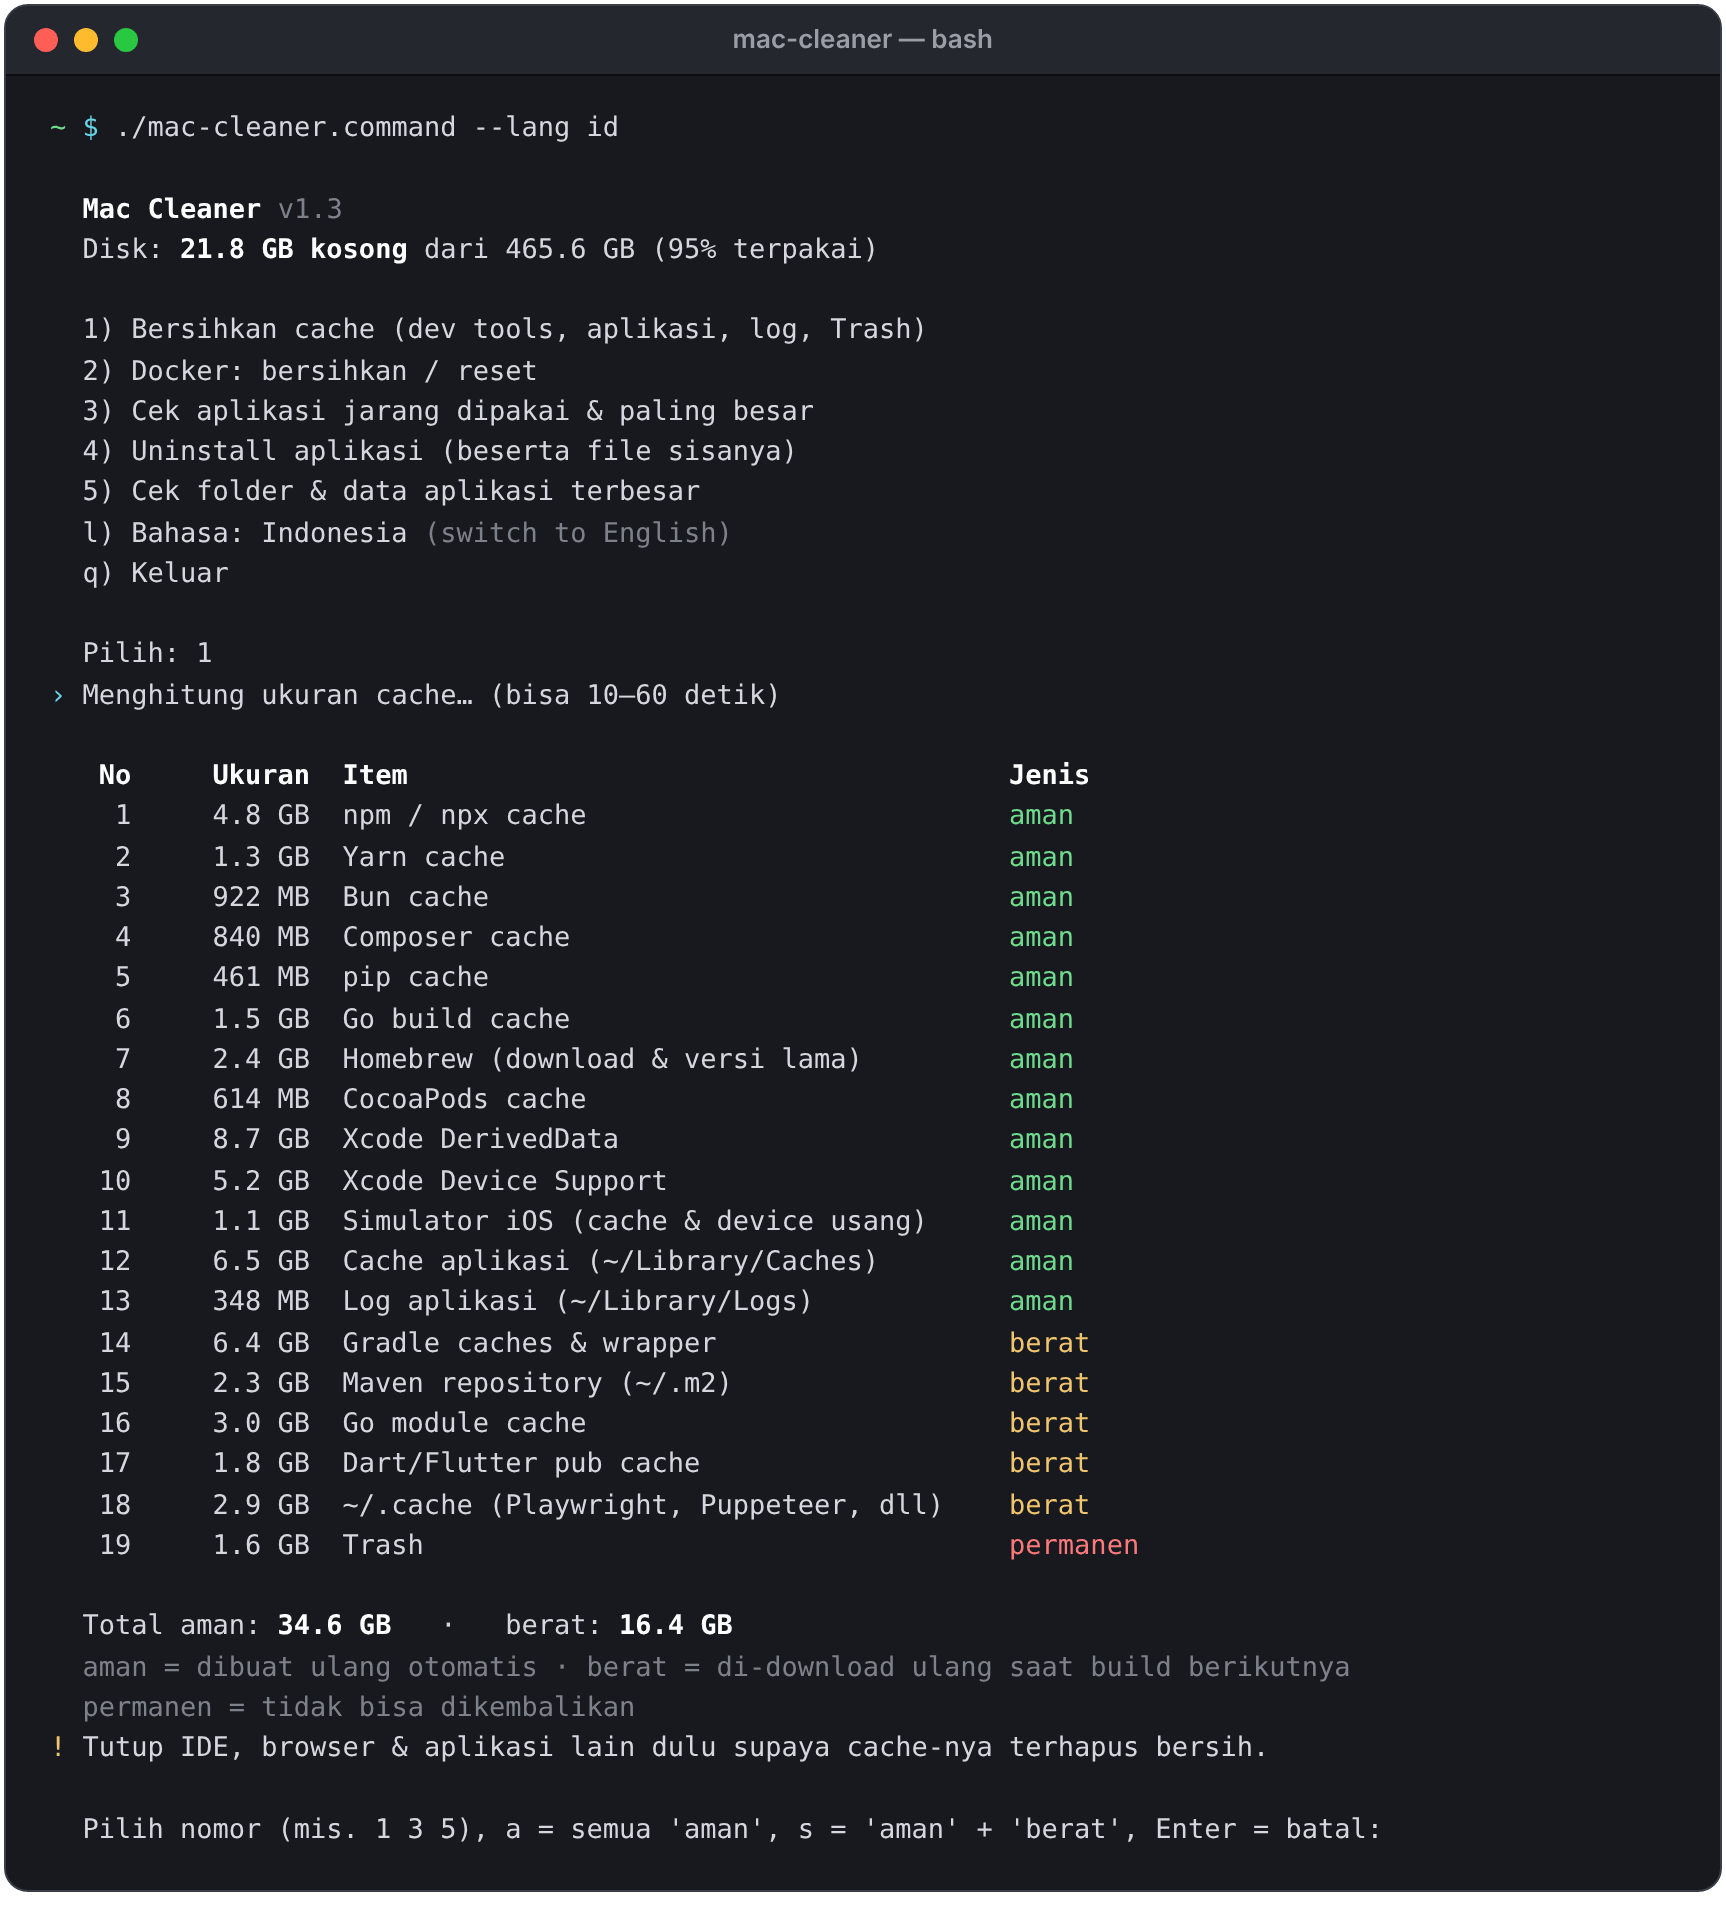
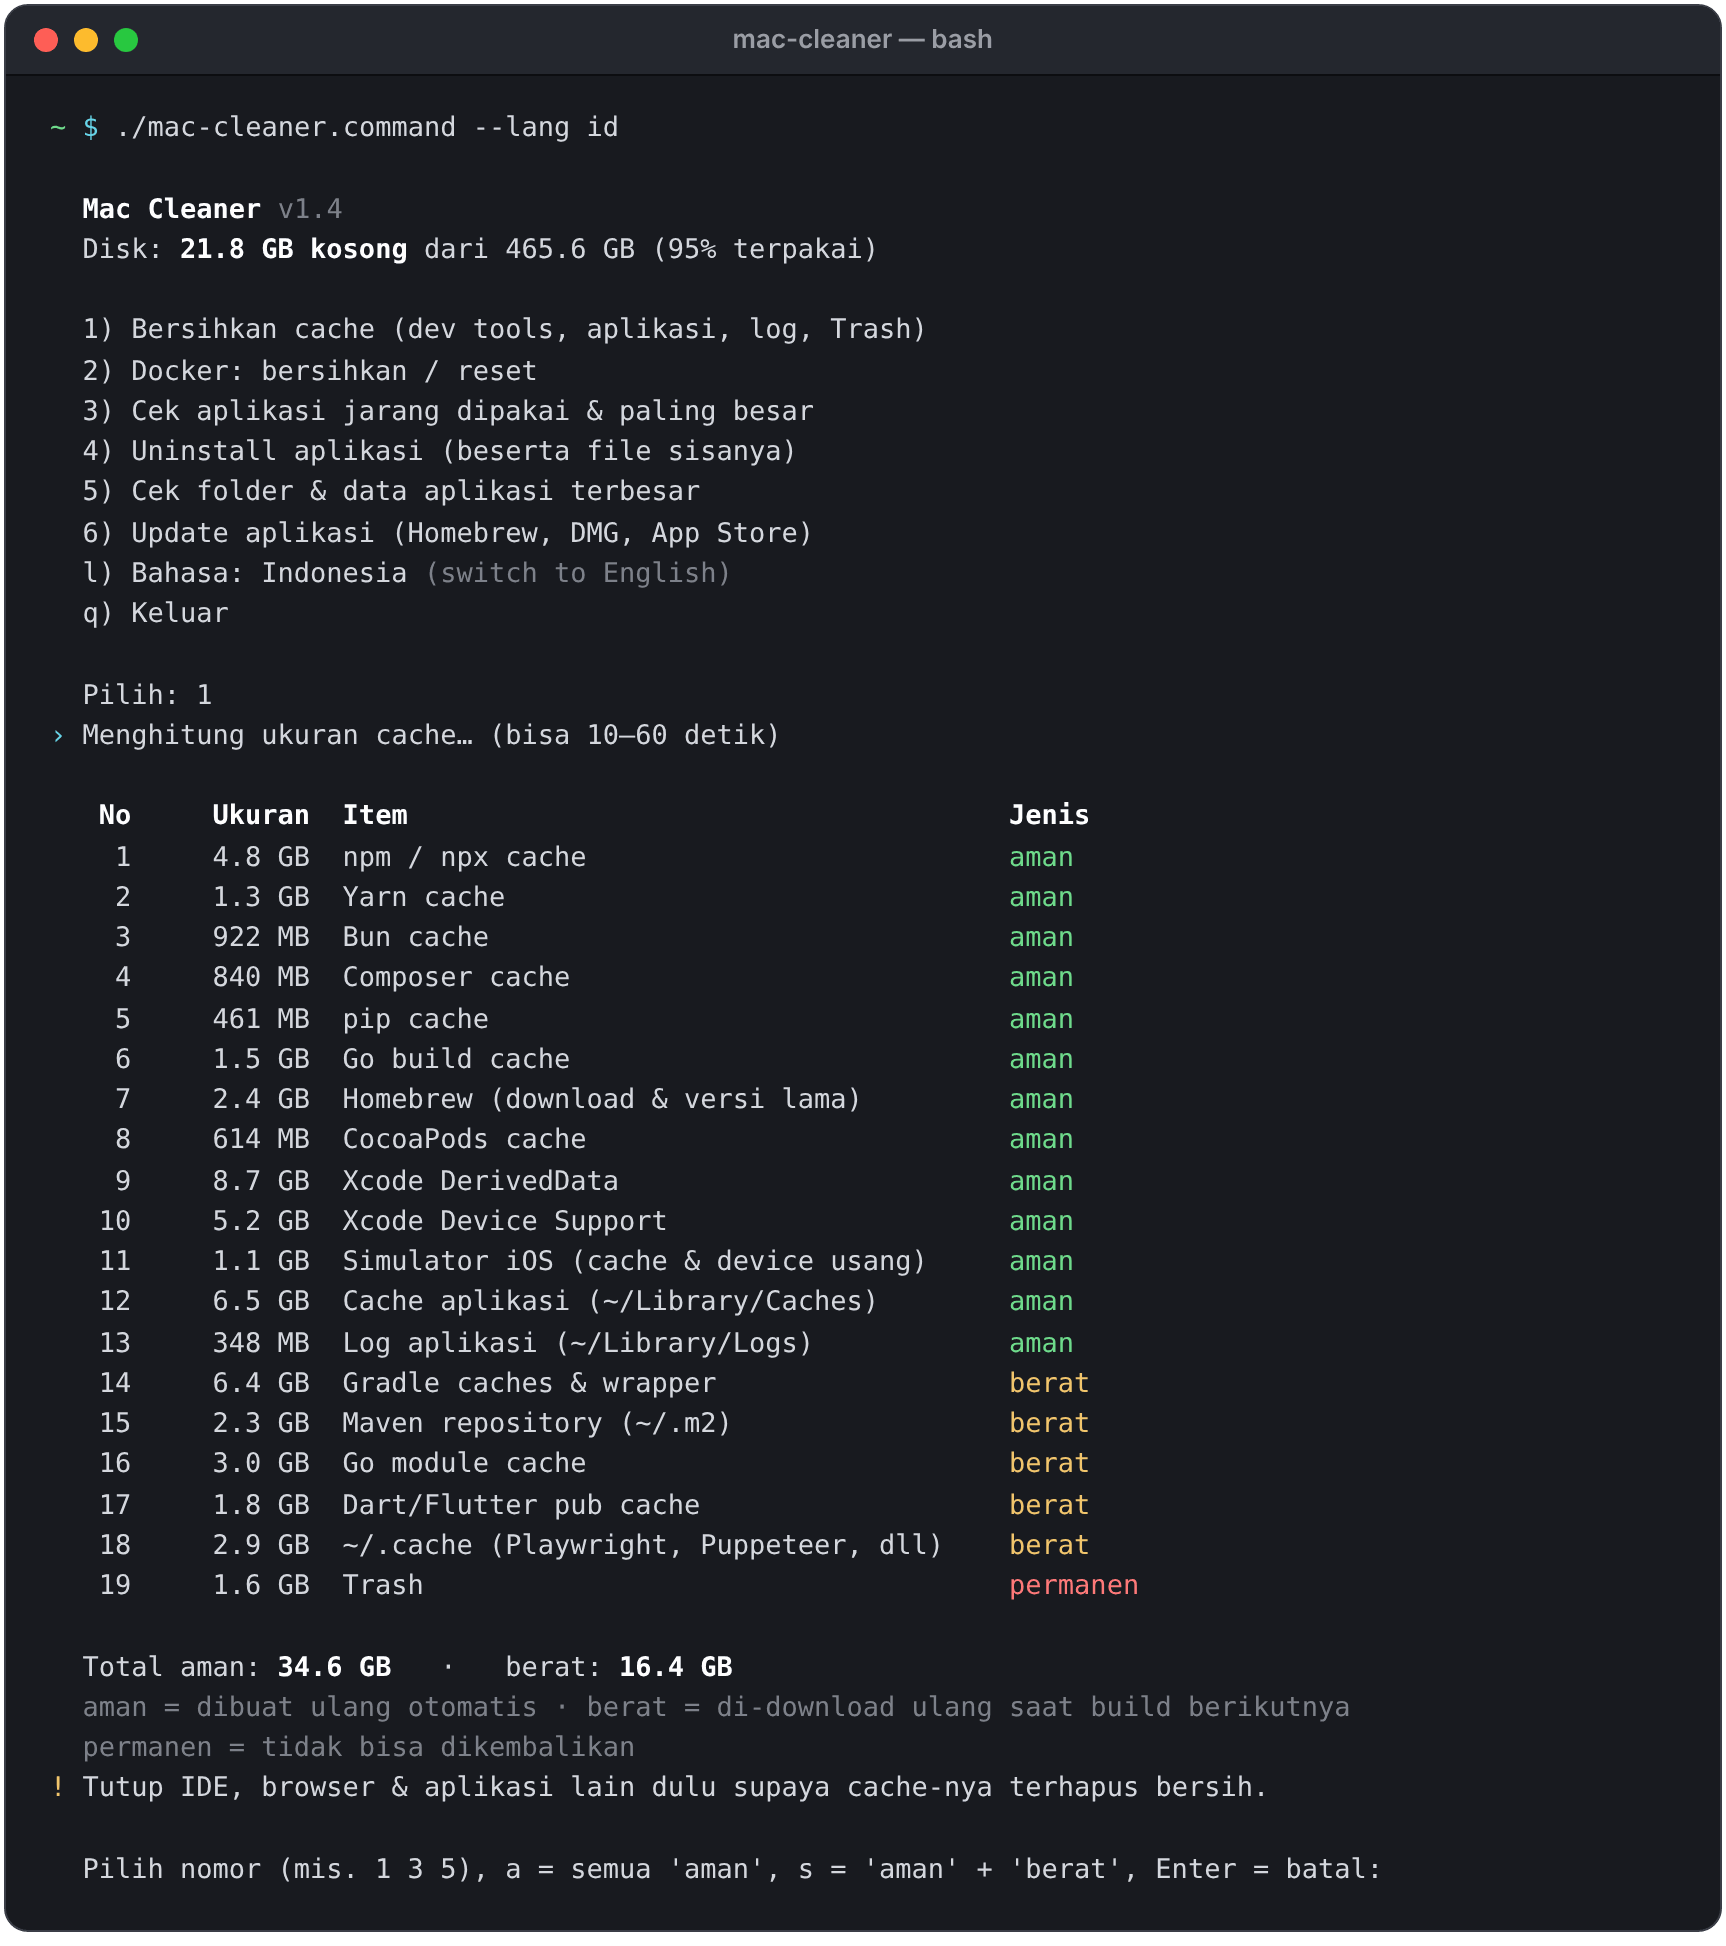
Add "Update apps" menu (v1.4)
New menu 6 checks every update source and shows one list with the
installed and latest version:

- Homebrew formulae and casks: brew update + brew outdated, updated with
  brew upgrade (pinned formulae are skipped)
- Apps installed from a DMG/zip: version compared with Homebrew's public
  cask catalog (cached daily); updated by moving the old app to the Trash
  and running brew install --cask, or the download page without brew.
  Prefers the main cask over @beta/@esr variants and skips apps already
  managed by Homebrew
- Apps with a Sparkle updater: checked via their SUFeedURL appcast, then
  opened so their own updater installs the new version
- App Store apps: mas outdated / mas upgrade, or the App Store updates
  page when mas isn't installed

Version comparison treats "6.2.11" and "6.2.11.43613" as equal to avoid
false alarms. README and screenshots updated.

Claude-Session: https://claude.ai/code/session_018yoJ2Y9ACy9wAvsBj1ghxZ

diff --git a/README.md b/README.md
@@ -9,6 +9,7 @@ One interactive script, no install, no sudo, no dependencies. English & Bahasa I
 - 🐳 **Docker / OrbStack** — pick exactly which containers, images, volumes, build cache or networks to remove, clean everything unused at once, or do a full reset
 - 📦 **Find rarely used & large apps** — sorted by size, with "last opened" from macOS
 - 🗑 **Uninstall apps completely** — the app plus its leftover files in `~/Library` (preferences, caches, containers, app data…), moved to the Trash
+- ⬆ **Update apps** — Homebrew formulae & casks, apps installed from a DMG, apps with a Sparkle updater, and App Store apps, in one list
 - 📊 **Find the largest folders & app data** in your home folder and `~/Library`, then reveal them in Finder
 
 ![Mac Cleaner cleaning developer caches](screenshots/caches.png)
@@ -55,6 +56,10 @@ The language follows your macOS language by default. Switch it any time with **`
 **Uninstall an app** — the app and every leftover file are listed (with sizes) before anything moves
 
 ![Uninstall an app with its leftover files](screenshots/uninstall.png)
+
+**Update apps** — everything that has a newer version, with where the update comes from
+
+![Update apps from Homebrew, DMG and the App Store](screenshots/updates.png)
 
 **Docker / OrbStack** — choose by type, then pick the exact items; images and volumes still used by a container are protected
 
@@ -127,9 +132,25 @@ Menu **4** (or pick an app straight from the rarely-used list in menu **3**). Se
 - System-level files in `/Library` (launch daemons, helper tools) are **shown but not removed** — they need an admin password.
 - Apps installed in their own vendor folder (e.g. Adobe) get a hint to use the vendor's uninstaller. Installed with Homebrew? `brew uninstall --cask --zap <name>` also does a full cleanup.
 
+## Updating apps
+
+Menu **6** checks every source at once and shows one list with the installed and latest version:
+
+| Source | How it's checked | How it's updated |
+| --- | --- | --- |
+| Homebrew formulae & casks | `brew update` + `brew outdated` | `brew upgrade` |
+| Apps installed from a DMG/zip | version compared with [Homebrew's public cask catalog](https://formulae.brew.sh/cask/) | old app → Trash, then `brew install --cask` (settings in `~/Library` stay; from then on Homebrew updates it). Without Homebrew: opens the download page |
+| Apps with a Sparkle updater (not in the catalog) | the app's own update feed (`SUFeedURL`) | opens the app so its updater can install the new version |
+| App Store apps | `mas outdated` if [mas](https://github.com/mas-cli/mas) is installed | `mas upgrade`; without mas: opens the App Store updates page |
+
+- Pick numbers or `a` for everything. Nothing is updated before you confirm.
+- Pinned formulae are skipped. Apps that update themselves and were installed with Homebrew are left to their own updater (Homebrew's default).
+- Versions are compared component by component; when one version is just a longer form of the other (`6.2.11` vs `6.2.11.43613`) it counts as up to date, so you don't get false alarms.
+- The cask catalog is downloaded once a day to `~/Library/Caches/mac-cleaner/`.
+
 ## Safety
 
-- No `sudo`. The script itself only deletes inside your home folder, and only the **contents** of known cache folders. Anything else is done by each tool's own cleanup command (`brew cleanup`, `docker … prune`, `orb reset`, `xcrun simctl`).
+- No `sudo`. The script itself only deletes inside your home folder, and only the **contents** of known cache folders. Anything else is done by each tool's own command (`brew cleanup`, `docker … prune`, `orb reset`, `xcrun simctl`). When updating, Homebrew itself may ask for your password for some apps.
 - Never touched: Desktop, Documents, Downloads, Pictures, Music, Movies, your projects, `~/.ssh`, Keychains. Preferences are only removed for an app you uninstall.
 - Uninstalled apps and their leftovers are **moved to the Trash** (recoverable), never deleted directly.
 - Use `--dry-run` first to see exactly what would happen.
@@ -137,7 +158,8 @@ Menu **4** (or pick an app straight from the rarely-used list in menu **3**). Se
 ## Requirements
 
 - macOS (Apple Silicon or Intel). Uses the built-in `/bin/bash` 3.2 — nothing to install.
-- Tools such as `brew`, `pnpm`, `go`, `docker`, `orb` and `xcrun` are detected automatically; missing ones are simply skipped.
+- Tools such as `brew`, `pnpm`, `go`, `docker`, `orb`, `mas` and `xcrun` are detected automatically; missing ones are simply skipped.
+- Checking DMG apps and Sparkle feeds needs an internet connection.
 
 ## FAQ
 
@@ -170,6 +192,7 @@ Satu script interaktif, tanpa instalasi, tanpa sudo, tanpa dependency. Tersedia 
 - 🐳 **Docker / OrbStack** — pilih sendiri container, image, volume, build cache, atau network yang mau dihapus, bersihkan semua yang tak terpakai sekaligus, atau full reset
 - 📦 **Cari aplikasi jarang dipakai & paling besar** — urut dari yang terbesar, lengkap dengan "terakhir dibuka"
 - 🗑 **Uninstall aplikasi sampai bersih** — aplikasi beserta file sisanya di `~/Library` (preferensi, cache, container, data aplikasi…), dipindah ke Trash
+- ⬆ **Update aplikasi** — formula & cask Homebrew, aplikasi dari DMG, aplikasi ber-updater Sparkle, dan aplikasi App Store dalam satu daftar
 - 📊 **Cari folder & data aplikasi terbesar** di folder home dan `~/Library`, lalu tampilkan di Finder
 
 ![Mac Cleaner dalam Bahasa Indonesia](screenshots/caches-id.png)
@@ -228,9 +251,20 @@ Pakai menu **4** (atau pilih langsung dari daftar aplikasi jarang dipakai di men
 - File level sistem di `/Library` hanya **ditampilkan, tidak dihapus** (butuh password admin).
 - Diinstal lewat Homebrew? `brew uninstall --cask --zap <nama>` juga membersihkan sampai tuntas.
 
+### Update aplikasi
+
+Menu **6** mengecek semua sumber sekaligus dan menampilkan satu daftar berisi versi terpasang dan versi terbaru:
+
+- **Homebrew** (formula & cask) — dicek dengan `brew outdated`, diupdate dengan `brew upgrade`.
+- **Aplikasi dari DMG/zip** — versinya dibandingkan dengan katalog cask Homebrew. Update-nya: aplikasi lama dipindah ke Trash, lalu dipasang versi terbaru lewat `brew install --cask` (setting di `~/Library` tetap ada, dan selanjutnya diupdate lewat Homebrew). Kalau tidak ada Homebrew, halaman download-nya yang dibuka.
+- **Aplikasi dengan updater Sparkle** — dicek lewat feed update aplikasinya, lalu aplikasinya dibuka supaya updater-nya memasang versi baru.
+- **App Store** — lewat `mas` kalau terpasang; kalau tidak, halaman update App Store dibuka.
+
+Pilih nomor atau `a` untuk semua; tidak ada yang diupdate sebelum Anda konfirmasi. Formula yang di-pin dilewati.
+
 ### Keamanan
 
-- Tanpa `sudo`. Script ini hanya menghapus di dalam folder home, dan hanya **isi** folder cache yang dikenal. Selebihnya dikerjakan perintah pembersih bawaan tiap tool (`brew cleanup`, `docker … prune`, `orb reset`, `xcrun simctl`).
+- Tanpa `sudo`. Script ini hanya menghapus di dalam folder home, dan hanya **isi** folder cache yang dikenal. Selebihnya dikerjakan perintah bawaan tiap tool (`brew cleanup`, `docker … prune`, `orb reset`, `xcrun simctl`). Saat update, Homebrew sendiri mungkin meminta password untuk beberapa aplikasi.
 - Tidak pernah disentuh: Desktop, Documents, Downloads, Pictures, Music, Movies, proyek Anda, `~/.ssh`, Keychain. Preferences hanya dihapus untuk aplikasi yang Anda uninstall.
 - Aplikasi yang di-uninstall beserta file sisanya **dipindah ke Trash** (bisa dikembalikan).
 - Pakai `--dry-run` dulu untuk melihat persis apa yang akan terjadi.
